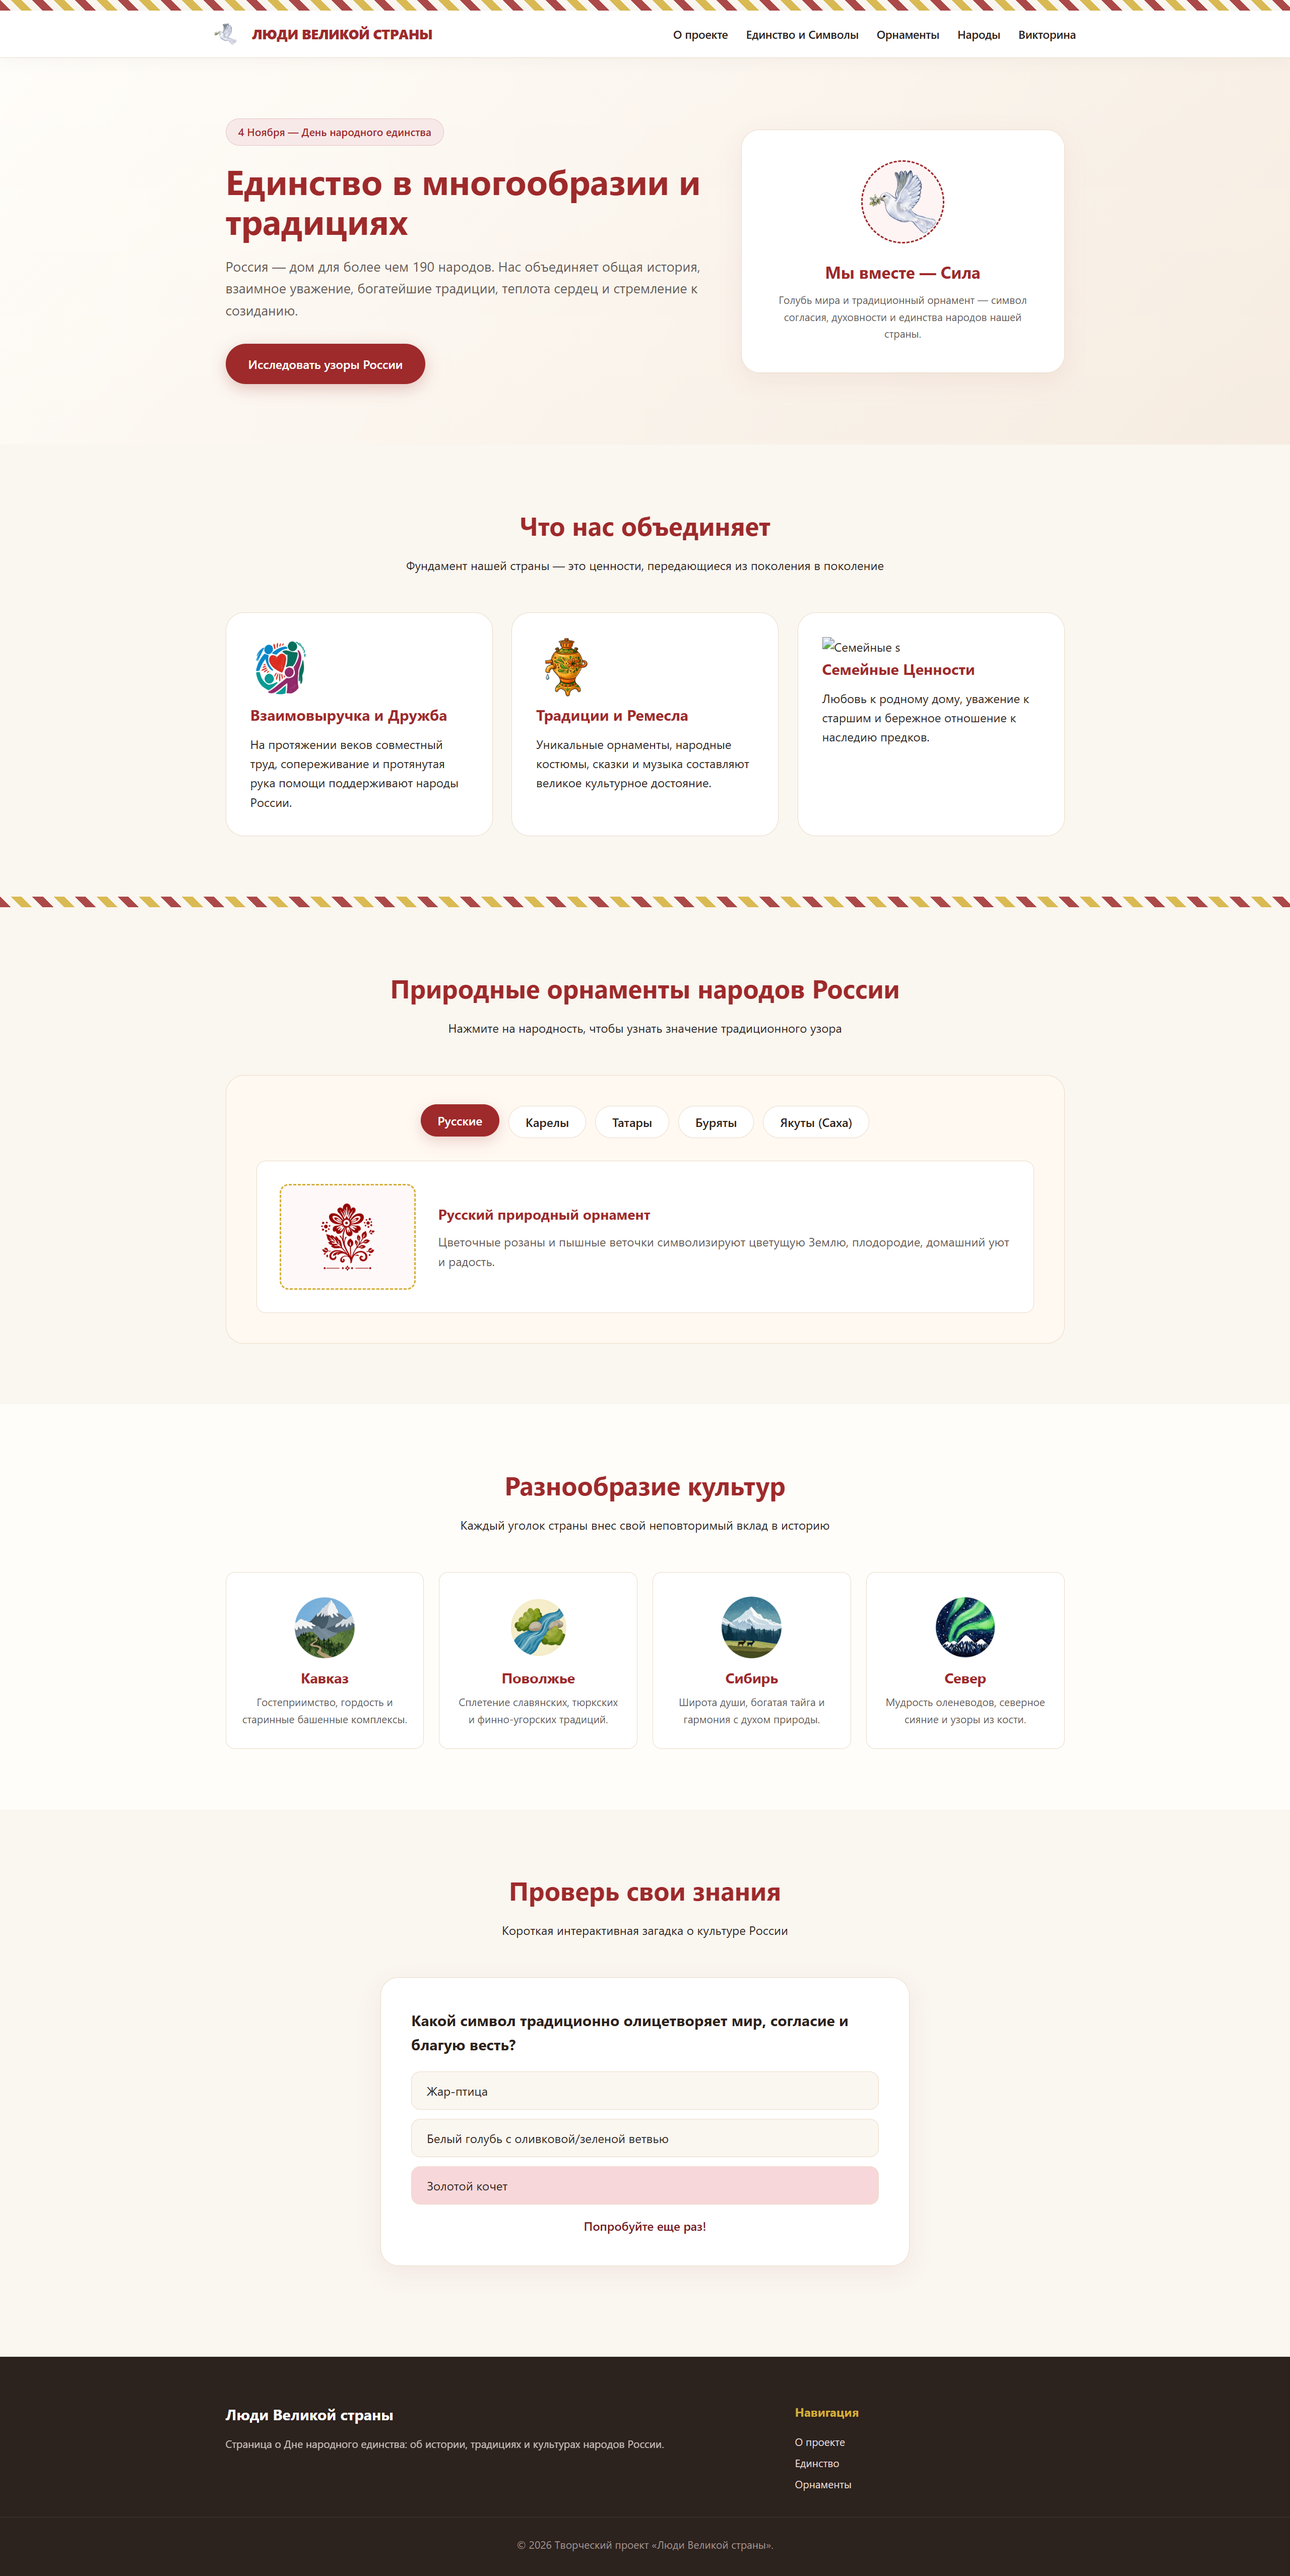
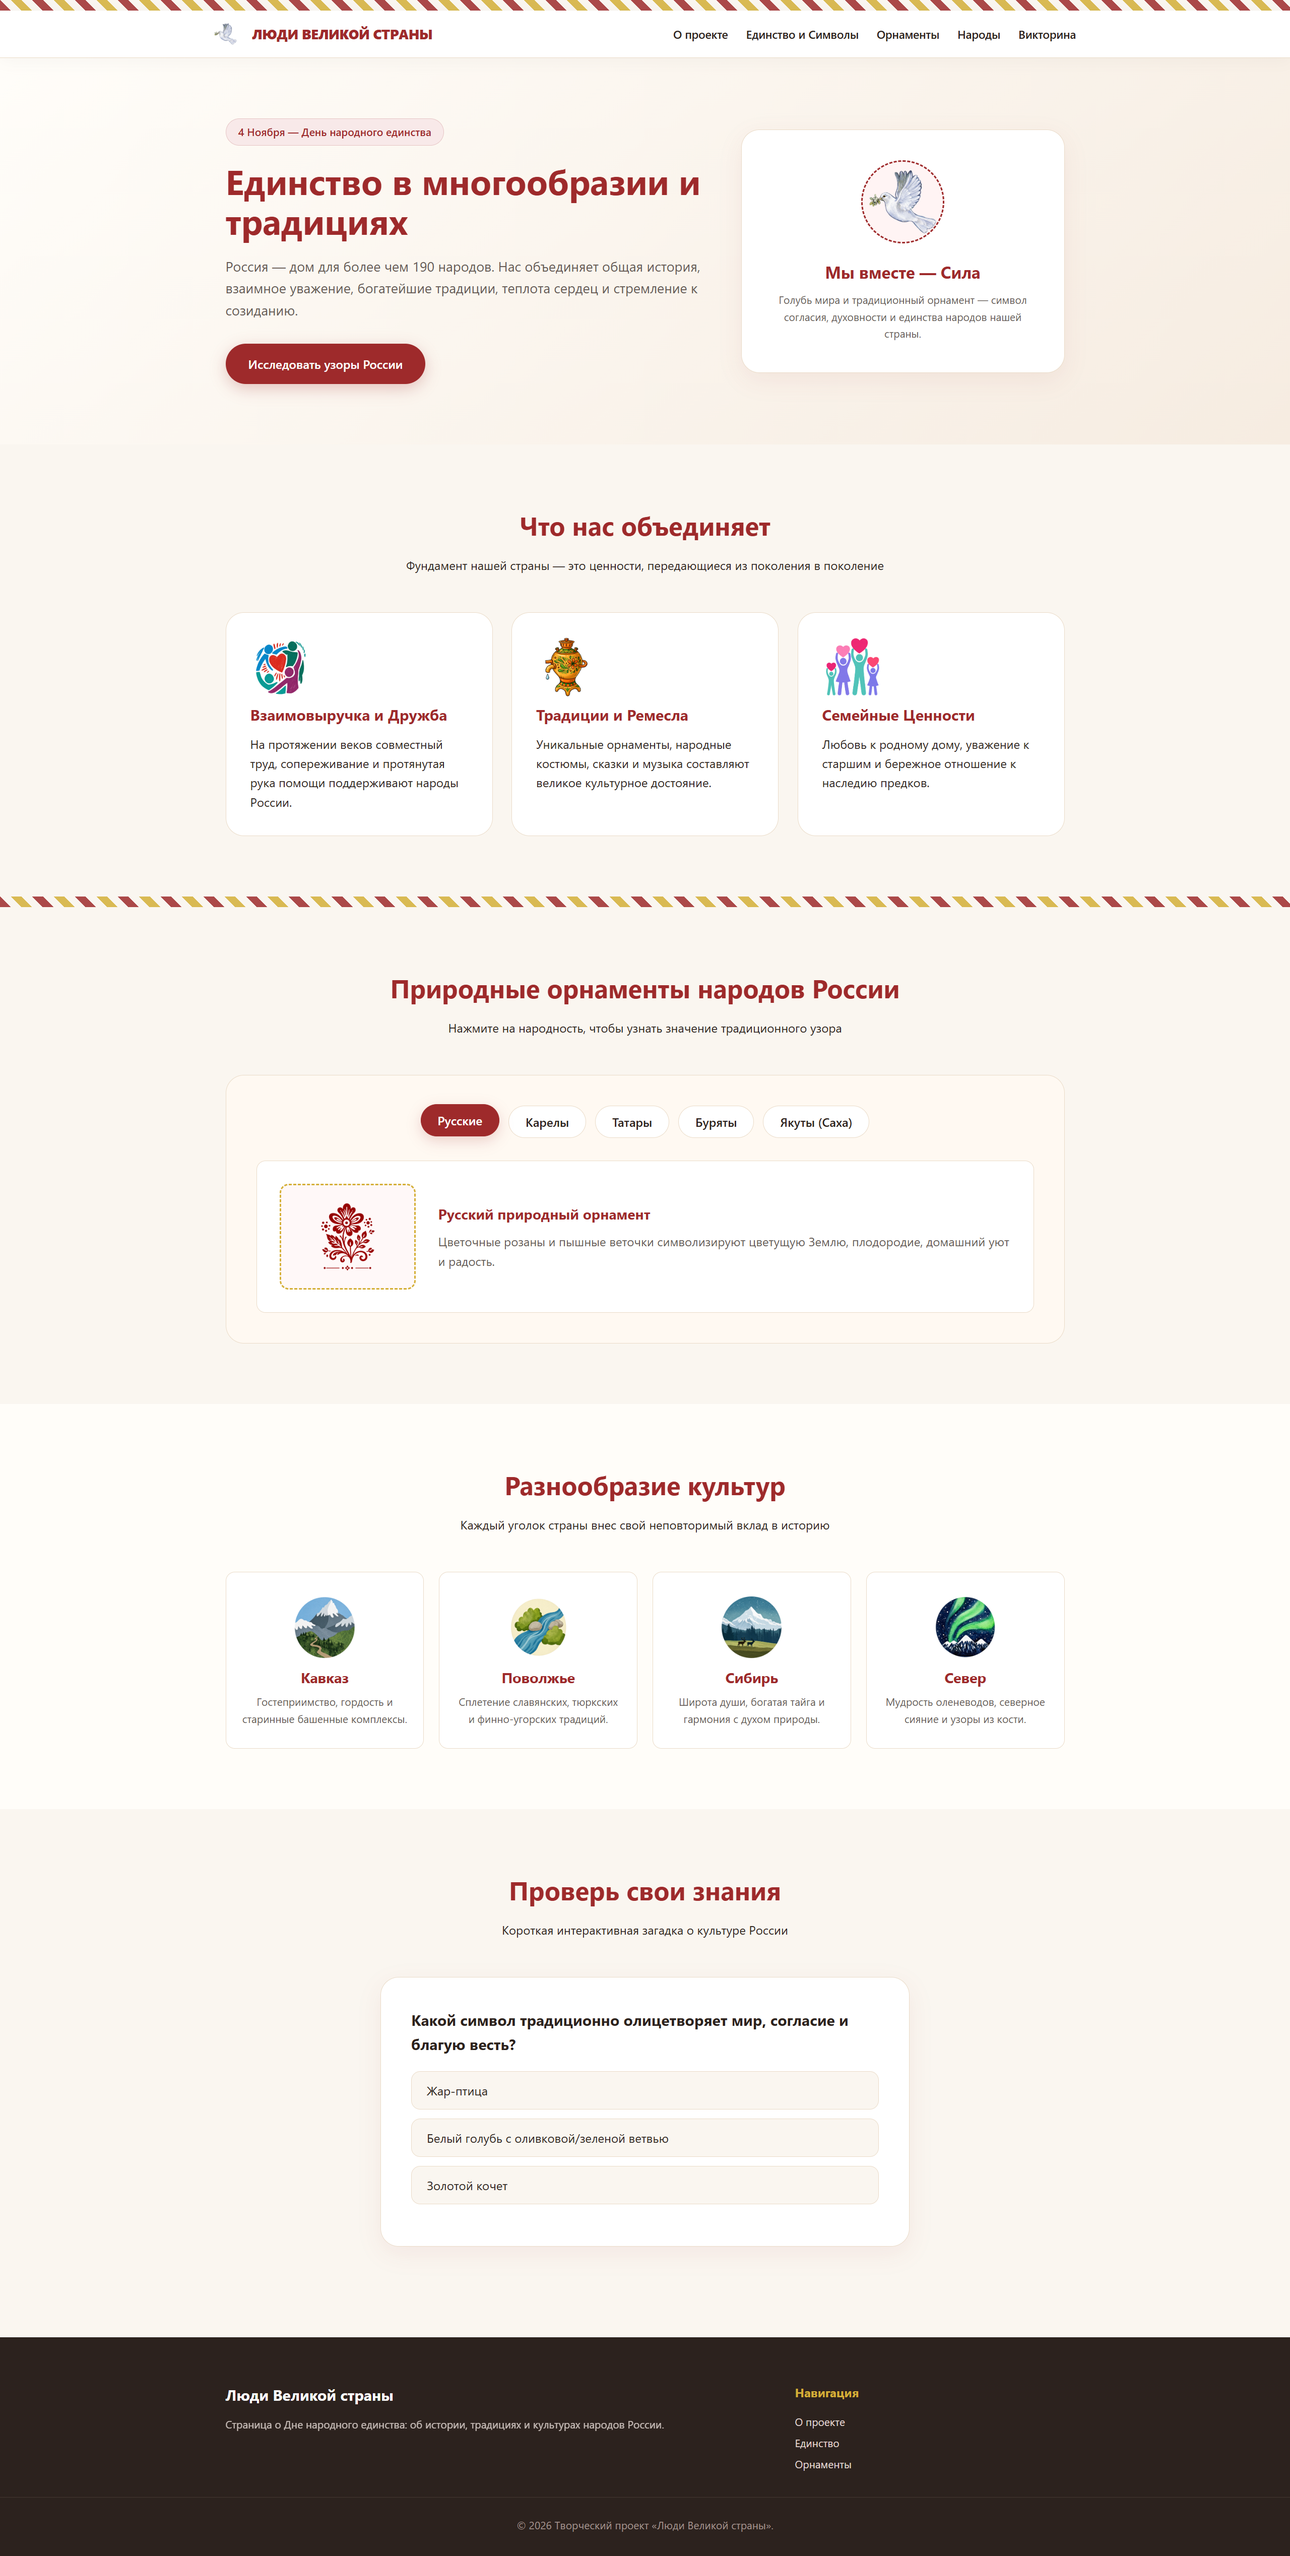
Fix screen cast image & fix img extension

diff --git a/index.html b/index.html
@@ -14,7 +14,7 @@
     <header class="site-header">
         <div class="container header-inner">
             <a href="#about" class="logo-area">
-                <img src="images/dovewebp" alt="Голубь мира" width="30" style="vertical-align: middle; margin-right: 8px;">
+                <img src="images/dove.webp" alt="Голубь мира" width="30" style="vertical-align: middle; margin-right: 8px;">
                 <span class="logo-text">Люди Великой страны</span>
             </a>
             <button type="button" class="menu-btn" id="menuBtn" aria-expanded="false" aria-controls="menu">Меню</button>
@@ -44,7 +44,7 @@
                 </div>
                 <div>
                     <div class="hero-card">
-                        <div class="dove-illustration"><img src="images/dovewebp" alt="Голубь мира" width="120"></div>
+                        <div class="dove-illustration"><img src="images/dove.webp" alt="Голубь мира" width="120"></div>
                         <h2>Мы вместе — Сила</h2>
                         <p>
                             Голубь мира и традиционный орнамент — символ согласия, духовности и единства народов нашей страны.
@@ -62,17 +62,17 @@
                 </div>
                 <div class="grid-cards">
                     <article class="card-item">
-                        <div class="card-icon-img"><img src="images/friendshipwebp" alt="Взаимовыручка и Дружба" width="80"></div>
+                        <div class="card-icon-img"><img src="images/friendship.webp" alt="Взаимовыручка и Дружба" width="80"></div>
                         <h3>Взаимовыручка и Дружба</h3>
                         <p>На протяжении веков совместный труд, сопереживание и протянутая рука помощи поддерживают народы России.</p>
                     </article>
                     <article class="card-item">
-                        <div class="card-icon-img"><img src="images/traditionswebp" alt="Традиции и Ремесла" width="80"></div>
+                        <div class="card-icon-img"><img src="images/traditions.webp" alt="Традиции и Ремесла" width="80"></div>
                         <h3>Традиции и Ремесла</h3>
                         <p>Уникальные орнаменты, народные костюмы, сказки и музыка составляют великое культурное достояние.</p>
                     </article>
                     <article class="card-item">
-                        <div class="card-icon-img"><img src="images/familywebp" alt="Семейные Ценности" width="80"></div>
+                        <div class="card-icon-img"><img src="images/family.webp" alt="Семейные Ценности" width="80"></div>
                         <h3>Семейные Ценности</h3>
                         <p>Любовь к родному дому, уважение к старшим и бережное отношение к наследию предков.</p>
                     </article>
@@ -97,7 +97,7 @@
                         <button type="button" class="chip" data-key="yakut" aria-pressed="false">Якуты (Саха)</button>
                     </div>
                     <div class="ornament-display">
-                        <div class="ornament-preview" id="znak"><img src="images/ornament-ruwebp" alt="Орнамент" width="90"></div>
+                        <div class="ornament-preview" id="znak"><img src="images/ornament-ru.webp" alt="Орнамент" width="90"></div>
                         <div>
                             <h3 id="nazvanie">Русский природный орнамент</h3>
                             <p id="opisanie">
@@ -117,22 +117,22 @@
                 </div>
                 <div class="peoples-grid">
                     <article class="people-card">
-                        <div class="people-icon-img"><img src="images/region-caucasuswebp" alt="Кавказ" width="90" style="border-radius: 50%;"></div>
+                        <div class="people-icon-img"><img src="images/region-caucasus.webp" alt="Кавказ" width="90" style="border-radius: 50%;"></div>
                         <h3>Кавказ</h3>
                         <p>Гостеприимство, гордость и старинные башенные комплексы.</p>
                     </article>
                     <article class="people-card">
-                        <div class="people-icon-img"><img src="images/region-volgawebp" alt="Поволжье" width="90" style="border-radius: 50%;"></div>
+                        <div class="people-icon-img"><img src="images/region-volga.webp" alt="Поволжье" width="90" style="border-radius: 50%;"></div>
                         <h3>Поволжье</h3>
                         <p>Сплетение славянских, тюркских и финно-угорских традиций.</p>
                     </article>
                     <article class="people-card">
-                        <div class="people-icon-img"><img src="images/region-siberiawebp" alt="Сибирь" width="90" style="border-radius: 50%;"></div>
+                        <div class="people-icon-img"><img src="images/region-siberia.webp" alt="Сибирь" width="90" style="border-radius: 50%;"></div>
                         <h3>Сибирь</h3>
                         <p>Широта души, богатая тайга и гармония с духом природы.</p>
                     </article>
                     <article class="people-card">
-                        <div class="people-icon-img"><img src="images/region-northwebp" alt="Север" width="90" style="border-radius: 50%;"></div>
+                        <div class="people-icon-img"><img src="images/region-north.webp" alt="Север" width="90" style="border-radius: 50%;"></div>
                         <h3>Север</h3>
                         <p>Мудрость оленеводов, северное сияние и узоры из кости.</p>
                     </article>
